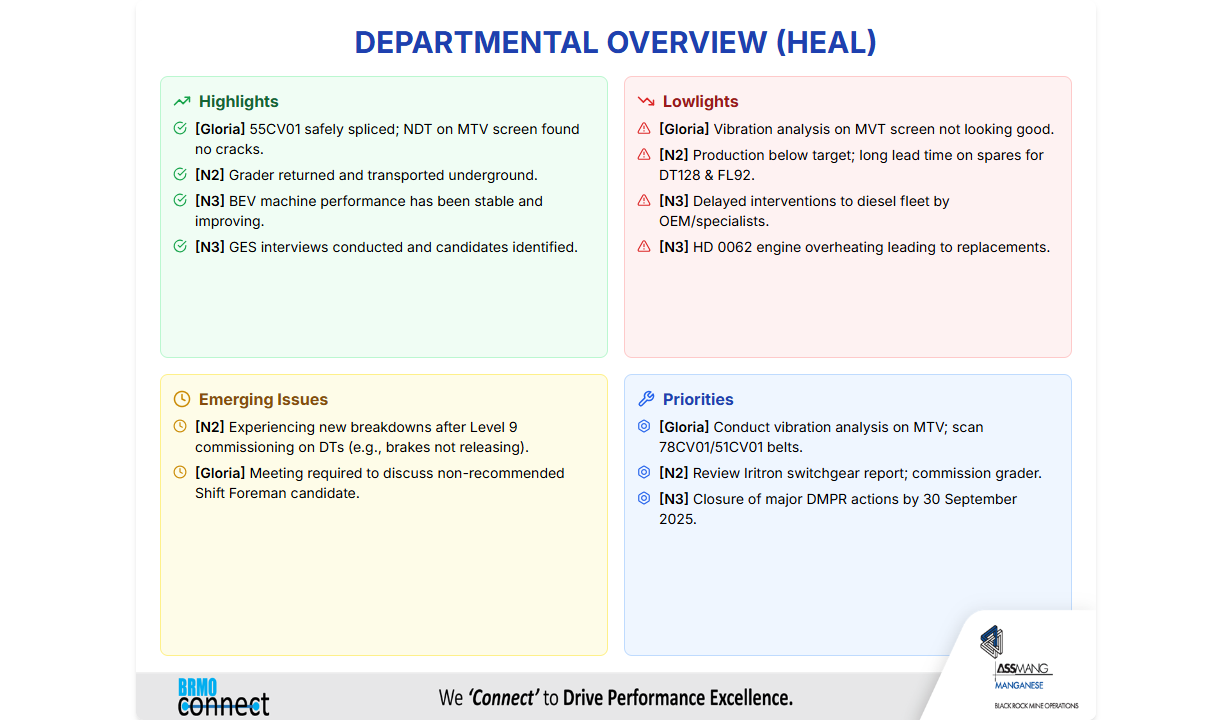
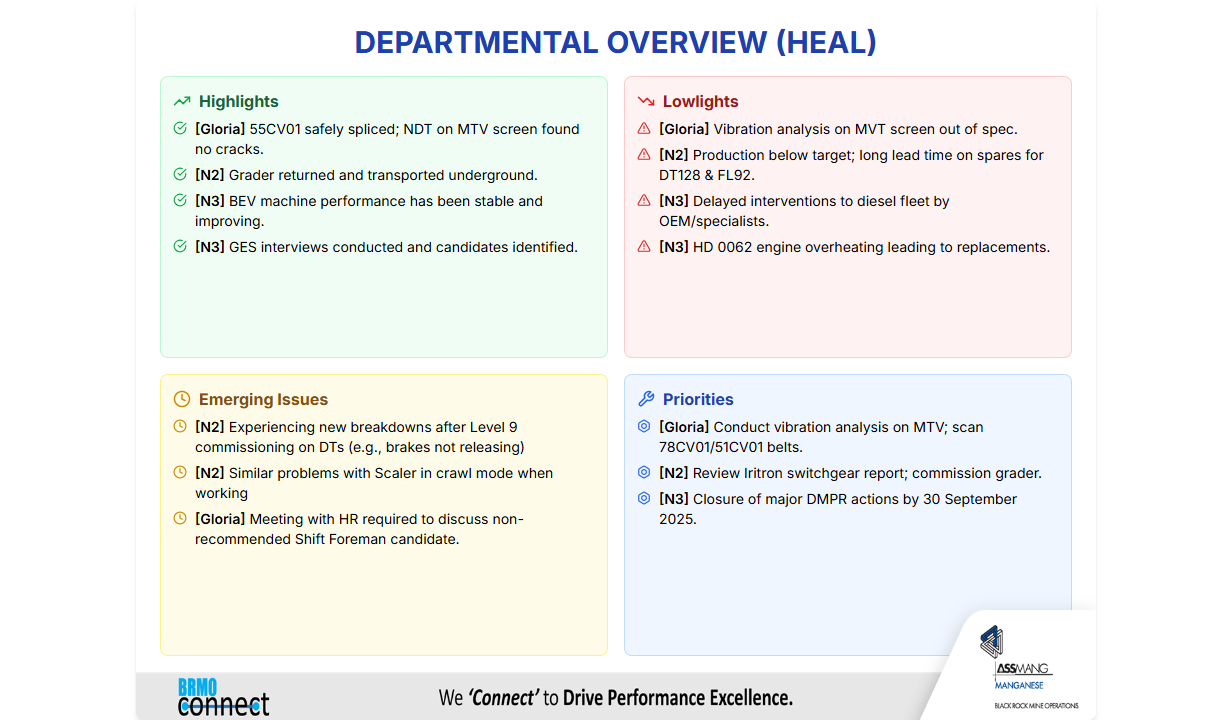
fix: Update Gloria availability target to 85%

Changed region(s): [[0.1234, 0.6417, 0.4627, 0.7639], [0.7711, 0.1528, 0.8636, 0.2139]]

diff --git a/weekly-report-generator/src/data/reportData.ts b/weekly-report-generator/src/data/reportData.ts
@@ -86,14 +86,15 @@ export const reportData: ReportData = {
       { site: 'N3', text: 'GES interviews conducted and candidates identified.' },
     ],
     lowlights: [
-      { site: 'Gloria', text: 'Vibration analysis on MVT screen not looking good.' },
+      { site: 'Gloria', text: 'Vibration analysis on MVT screen out of spec.' },
       { site: 'N2', text: 'Production below target; long lead time on spares for DT128 & FL92.' },
       { site: 'N3', text: 'Delayed interventions to diesel fleet by OEM/specialists.' },
       { site: 'N3', text: 'HD 0062 engine overheating leading to replacements.' },
     ],
     emergingIssues: [
-      { site: 'N2', text: 'Experiencing new breakdowns after Level 9 commissioning on DTs (e.g., brakes not releasing).' },
-      { site: 'Gloria', text: 'Meeting required to discuss non-recommended Shift Foreman candidate.' },
+      { site: 'N2', text: 'Experiencing new breakdowns after Level 9 commissioning on DTs (e.g., brakes not releasing)' },
+      { site: 'N2', text: 'Similar problems with Scaler in crawl mode when working' },
+      { site: 'Gloria', text: 'Meeting with HR required to discuss non-recommended Shift Foreman candidate.' },
     ],
     priorities: [
       { site: 'Gloria', text: 'Conduct vibration analysis on MTV; scan 78CV01/51CV01 belts.' },
@@ -134,14 +135,14 @@ export const reportData: ReportData = {
         comment: '',
       },
       safety: { status: 'Good', details: '' },
-      weeklyAverage: { value: 89, target: 95 },
+      weeklyAverage: { value: 93, target: 85 },
       serviceCompliance: { status: 'Good', details: 'All planned maintenance completed.' },
       availability: [
-        { label: 'DT', percentage: 93, target: 95 },
-        { label: 'FL', percentage: 86, target: 95 },
-        { label: 'HD', percentage: 92, target: 95 },
-        { label: 'RT', percentage: 87, target: 95 },
-        { label: 'SR', percentage: 88, target: 95 }
+        { label: 'DT', percentage: 93, target: 85 },
+        { label: 'FL', percentage: 86, target: 85 },
+        { label: 'HD', percentage: 92, target: 85 },
+        { label: 'RT', percentage: 87, target: 85 },
+        { label: 'SR', percentage: 88, target: 85 }
       ],
       keyBreakdowns: [
         { equipment: 'RT', details: ['RT0027 - Drifter'] },
@@ -155,7 +156,7 @@ export const reportData: ReportData = {
         comment: '',
       },
       safety: { status: 'Good', details: '' },
-      weeklyAverage: { value: 86, target: 85 },
+      weeklyAverage: { value: 89, target: 85 },
       serviceCompliance: { status: 'Issues', details: 'DT fleet at 67% (DT0128 breakdown), FL fleet at 33% (low availability).' },
       availability: [
         { label: 'DT', percentage: 82, target: 85 },
@@ -176,7 +177,7 @@ export const reportData: ReportData = {
         comment: '',
       },
       safety: { status: 'Good', details: '' },
-      weeklyAverage: { value: 87, target: 85 },
+      weeklyAverage: { value: 88, target: 85 },
       serviceCompliance: { status: 'Good', details: 'All planned maintenance completed.' },
       availability: [
         { label: 'DT', percentage: 85, target: 85 },
